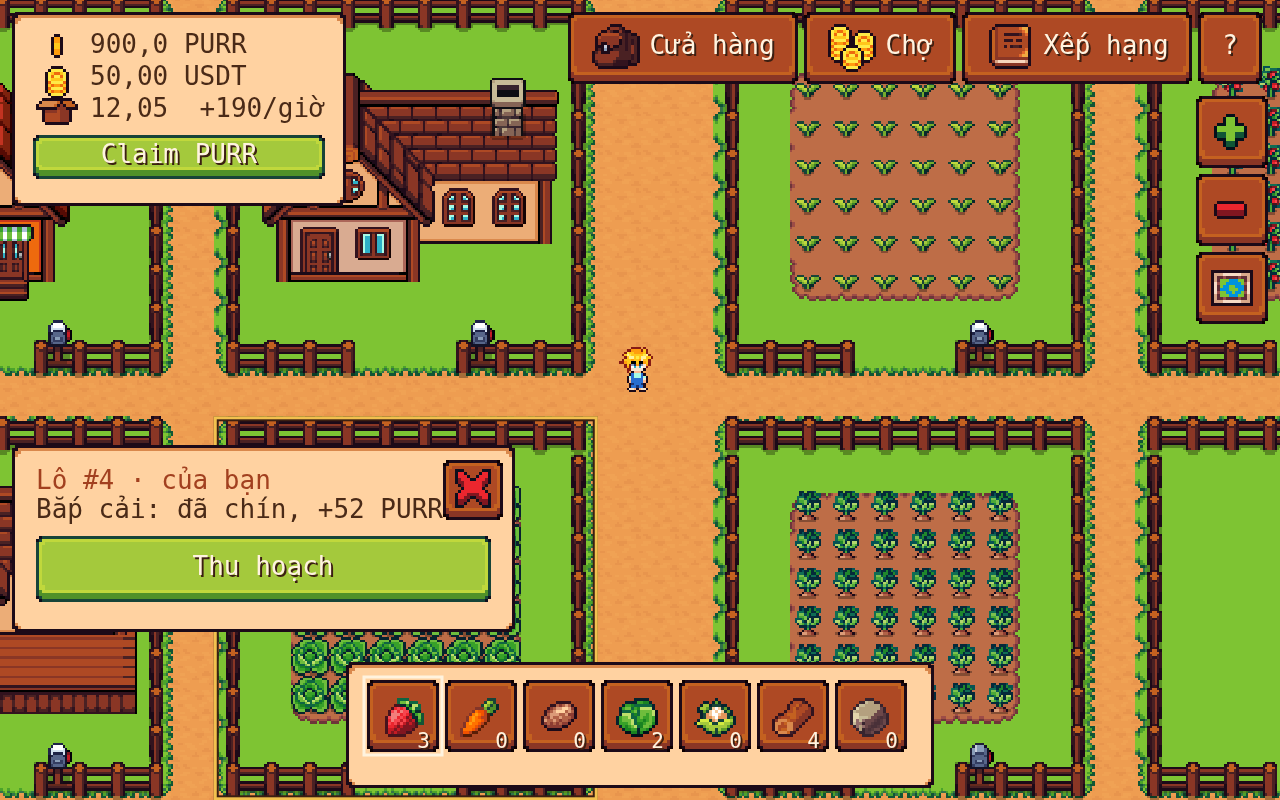
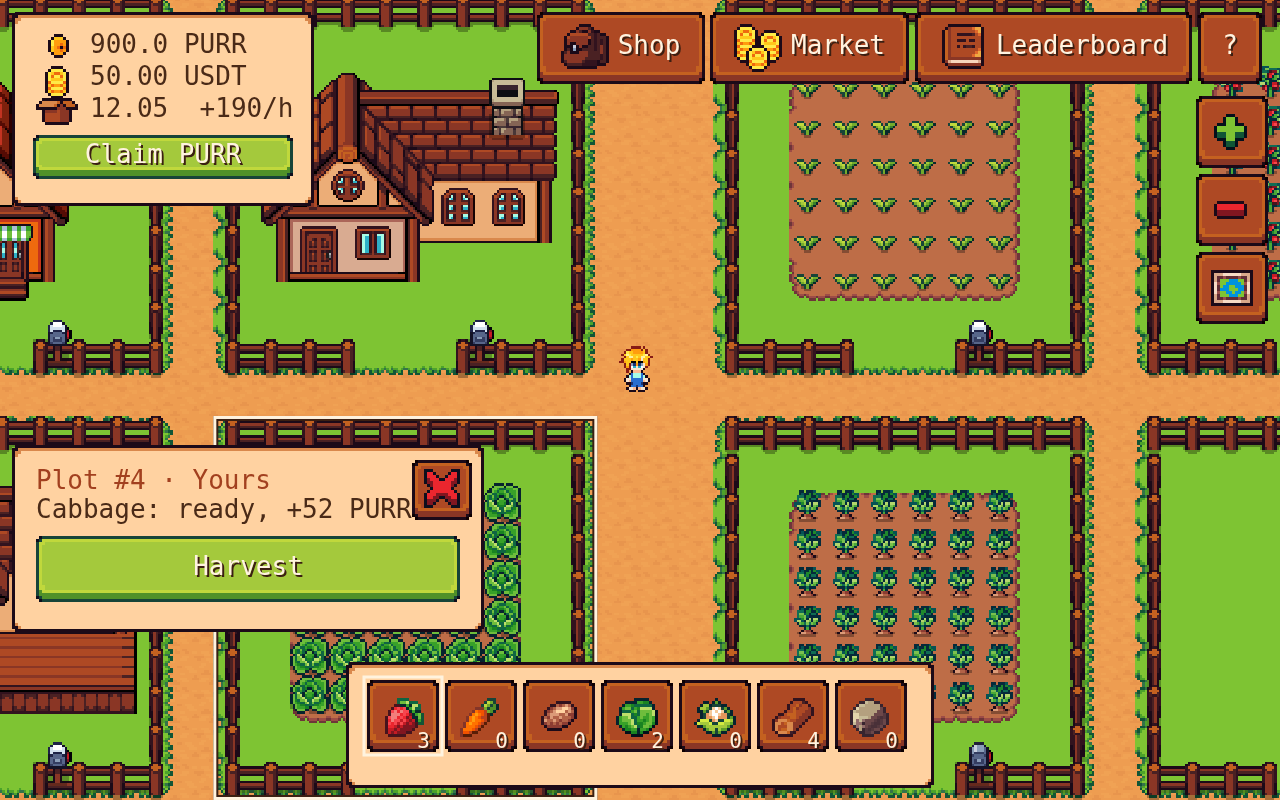
Purrl Valley: professional English build with title screen
Claude-Session: https://claude.ai/code/session_01TUebjeuij8Ma89MtCkRqRD

diff --git a/game/purrl-valley.html b/game/purrl-valley.html
@@ -8,7 +8,7 @@
 html, body { height: 100%; margin: 0; background: #3f8a3a; overflow: hidden; }
 #game { position: fixed; inset: 0; width: 100%; height: 100%; display: block; touch-action: none; image-rendering: pixelated; cursor: grab; }
 </style>
-<canvas id="game" tabindex="0" aria-label="Purrl Valley, game nông trại pixel. WASD hoặc bấm để đi, kéo để nhìn quanh, cuộn để phóng to."></canvas>
+<canvas id="game" tabindex="0" aria-label="Purrl Valley, a pixel farming game. Use WASD or tap to walk, drag to look around, scroll to zoom."></canvas>
 <script>
 'use strict';
 // ================= rules (play money) =================
@@ -18,25 +18,25 @@ const CLAIM_CD = 10 * 60 * 1000, CLAIM_FEE = 0.05;
 const POOL0 = { purr: 100000, usdt: 10000 }, SWAP_FEE = 0.003;
 // crops: row on the Spring Crops sheet; stages are columns 0-5, the harvested item is column 7
 const CROPS = {
-  strawberry:  { name: 'Dâu tây',  row: 1,  grow: 1 * 60e3,  yield: 9,   seed: 6 },
-  carrot:      { name: 'Cà rốt',   row: 9,  grow: 2 * 60e3,  yield: 16,  seed: 10 },
-  potato:      { name: 'Khoai tây', row: 5, grow: 4 * 60e3,  yield: 30,  seed: 18 },
-  cabbage:     { name: 'Bắp cải',  row: 15, grow: 8 * 60e3,  yield: 52,  seed: 30 },
-  cauliflower: { name: 'Súp lơ',   row: 17, grow: 15 * 60e3, yield: 105, seed: 60 },
+  strawberry:  { name: 'Strawberry',  row: 1,  grow: 1 * 60e3,  yield: 9,   seed: 6 },
+  carrot:      { name: 'Carrot',   row: 9,  grow: 2 * 60e3,  yield: 16,  seed: 10 },
+  potato:      { name: 'Potato', row: 5, grow: 4 * 60e3,  yield: 30,  seed: 18 },
+  cabbage:     { name: 'Cabbage',  row: 15, grow: 8 * 60e3,  yield: 52,  seed: 30 },
+  cauliflower: { name: 'Cauliflower',   row: 17, grow: 15 * 60e3, yield: 105, seed: 60 },
 };
-const MATS = { wood: { name: 'Gỗ', price: 8 }, stone: { name: 'Đá', price: 12 } };
+const MATS = { wood: { name: 'Wood', price: 8 }, stone: { name: 'Stone', price: 12 } };
 const HOUSE = [null,
-  { name: 'Nhà gỗ nhỏ',  rate: 30,  cost: { wood: 10, stone: 8 },  spr: 'house1' },
-  { name: 'Nhà hai gian', rate: 60,  cost: { wood: 20, stone: 16 }, spr: 'house2' },
-  { name: 'Trang trại',  rate: 100, cost: { wood: 40, stone: 30 }, spr: 'house3' },
+  { name: 'Cottage',  rate: 30,  cost: { wood: 10, stone: 8 },  spr: 'house1' },
+  { name: 'Farmhouse', rate: 60,  cost: { wood: 20, stone: 16 }, spr: 'house2' },
+  { name: 'Manor',  rate: 100, cost: { wood: 40, stone: 30 }, spr: 'house3' },
 ];
 
 // ================= state =================
 let db = null, user = null, me = null, canWrite = null, signedIn = null;
 let land = {}, farms = {}, pool = null, names = {};
 let sel = null, busy = false, hover = null;
-const ui = { win: null, seed: 'strawberry', toast: null, toastAt: 0 };
-const fmt = (n, d = 1) => Number(n).toLocaleString('vi-VN', { minimumFractionDigits: d, maximumFractionDigits: d });
+const ui = { win: null, seed: 'strawberry', toast: null, toastAt: 0, title: true };
+const fmt = (n, d = 1) => Number(n).toLocaleString('en-US', { minimumFractionDigits: d, maximumFractionDigits: d });
 const mins = (ms) => { const s = Math.max(0, Math.ceil(ms / 1000)); return Math.floor(s / 60) + ':' + String(s % 60).padStart(2, '0'); };
 const key = (x, y) => x + '_' + y;
 const clone = (o) => JSON.parse(JSON.stringify(o));
@@ -220,11 +220,11 @@ function button(x, y, w, h, label, fn, o = {}) {
 }
 function drawHUD(now) {
   const f = myFarm(), pad = S * 7, lh = F + S * 2;
-  const rows = f ? [['coin', fmt(f.purr) + ' PURR'], ['usdt', fmt(f.usdt, 2) + ' USDT'], ['box', fmt(pendingNow(f, now), 2) + '  +' + houseRate(f) + '/giờ']] : [['coin', 'PURR $' + fmt(price(), 4)]];
+  const rows = f ? [['coin', fmt(f.purr) + ' PURR'], ['usdt', fmt(f.usdt, 2) + ' USDT'], ['box', fmt(pendingNow(f, now), 2) + '  +' + houseRate(f) + '/h']] : [['coin', 'PURR $' + fmt(price(), 4)]];
   const w = Math.max(...rows.map(([, s]) => tw(s))) + 16 * S + pad * 2 + S * 3, h = rows.length * lh + pad * 2 + (f ? lh + S * 8 : 0);
   panel(S * 4, S * 4, w, h);
   rows.forEach(([k, s], i) => { const y = S * 4 + pad + i * lh; if (k === 'coin') icon('coin', Math.floor(now / 140) % 6, 0, S * 4 + pad, y + (lh - 16 * S) / 2 - S); else ic(k, S * 4 + pad, y + (lh - 16 * S) / 2 - S); text(s, S * 4 + pad + 16 * S + S * 3, y); });
-  if (f) { const left = CLAIM_CD - (now - (f.lastClaim || 0)); button(S * 4 + pad, S * 4 + pad + rows.length * lh + S * 2, w - pad * 2, lh + S * 4, left > 0 ? 'Claim sau ' + mins(left) : 'Claim PURR', actions.claim, { enabled: left <= 0, go: left <= 0 }); }
+  if (f) { const left = CLAIM_CD - (now - (f.lastClaim || 0)); button(S * 4 + pad, S * 4 + pad + rows.length * lh + S * 2, w - pad * 2, lh + S * 4, left > 0 ? 'Claim in ' + mins(left) : 'Claim PURR', actions.claim, { enabled: left <= 0, go: left <= 0 }); }
   // seed bar
   if (f) {
     const ks = Object.keys(CROPS), slot = 16 * S + S * 8, n = ks.length + 2, bw = n * (slot + S * 2) + S * 14;
@@ -243,7 +243,7 @@ function drawHUD(now) {
     });
   }
   // menu
-  const menu = [['Cửa hàng', 'shop', 'bag'], ['Chợ', 'market', 'pile'], ['Xếp hạng', 'board', 'book'], ['?', 'help', null]];
+  const menu = [['Shop', 'shop', 'bag'], ['Market', 'market', 'pile'], ['Leaderboard', 'board', 'book'], ['?', 'help', null]];
   const narrow = vw < 760, bh = 16 * S + S * 8;
   let x = vw - S * 4;
   menu.slice().reverse().forEach(([label, win, k], i) => {
@@ -261,7 +261,7 @@ function drawHUD(now) {
 }
 function goHome() {
   const mine = Object.keys(land).filter((k) => land[k].owner === me);
-  if (!mine.length) { toast('Bạn chưa có đất. Ra quảng trường.'); player.tx = (PLAZA[0] + 10.5) * TS; player.ty = (PLAZA[1] + 14) * TS; cam.follow = true; return; }
+  if (!mine.length) { toast('No land yet. Heading to the square.'); player.tx = (PLAZA[0] + 10.5) * TS; player.ty = (PLAZA[1] + 14) * TS; cam.follow = true; return; }
   const [x, y] = mine[0].split('_').map(Number); player.tx = (x + 5) * TS; player.ty = (y + LOT + .5) * TS; cam.follow = true; sel = mine[0];
 }
 function drawLotCard(now) {
@@ -269,25 +269,25 @@ function drawLotCard(now) {
   const f = myFarm(), l = land[sel], pad = S * 8, lh = F + S;
   let rows = [], btns = [];
   const p = l && farms[l.owner] && farms[l.owner].plots && farms[l.owner].plots[sel];
-  if (!l) { const pr = landPrice(); rows = [`Lô #${lotNo(sel)} · đang bán`, `Giá ${fmt(pr, 0)} PURR`]; btns = [['Mua lô này', actions.buyLand, !!f && f.purr >= pr, true]]; }
+  if (!l) { const pr = landPrice(); rows = [`Plot #${lotNo(sel)} · For sale`, `Price ${fmt(pr, 0)} PURR`]; btns = [['Buy this plot', actions.buyLand, !!f && f.purr >= pr, true]]; }
   else {
     const mine = l.owner === me;
-    rows = [`Lô #${lotNo(sel)} · ${mine ? 'của bạn' : (names[l.owner] || 'người khác')}`];
+    rows = [`Plot #${lotNo(sel)} · ${mine ? 'Yours' : (names[l.owner] || 'Another farmer')}`];
     if (!p || p.kind === 'empty') {
-      rows.push('Đất trống');
+      rows.push('Empty plot');
       if (mine) {
         const c = CROPS[ui.seed], n = (f.inv || {})[ui.seed] || 0;
-        btns.push([`Gieo ${c.name} (${n})`, () => actions.plant({ crop: ui.seed }), n > 0, true]);
-        btns.push([`Xây ${HOUSE[1].name}`, actions.build, hasCost(f, HOUSE[1].cost)]);
-        rows.push(`Nhà: ${HOUSE[1].cost.wood} gỗ, ${HOUSE[1].cost.stone} đá · ${HOUSE[1].rate}/giờ`);
+        btns.push([`Plant ${c.name} (${n})`, () => actions.plant({ crop: ui.seed }), n > 0, true]);
+        btns.push([`Build ${HOUSE[1].name}`, actions.build, hasCost(f, HOUSE[1].cost)]);
+        rows.push(`House: ${HOUSE[1].cost.wood} wood, ${HOUSE[1].cost.stone} stone · ${HOUSE[1].rate}/h`);
       }
     } else if (p.kind === 'crop') {
       const c = CROPS[p.crop], t = Math.min(1, (now - p.plantedAt) / c.grow);
-      rows.push(`${c.name}: ${t >= 1 ? 'đã chín, +' + c.yield + ' PURR' : 'còn ' + mins(c.grow * (1 - t))}`);
-      if (mine) btns.push(['Thu hoạch', actions.harvest, t >= 1, true]);
+      rows.push(`${c.name}: ${t >= 1 ? 'ready, +' + c.yield + ' PURR' : mins(c.grow * (1 - t)) + ' left'}`);
+      if (mine) btns.push(['Harvest', actions.harvest, t >= 1, true]);
     } else if (p.kind === 'house') {
-      const H = HOUSE[p.level]; rows.push(`${H.name} · ${H.rate} PURR/giờ`);
-      if (mine && p.level < 3) { const N = HOUSE[p.level + 1]; rows.push(`Nâng: ${N.cost.wood} gỗ, ${N.cost.stone} đá`); btns.push([`Nâng lên ${N.name}`, actions.upgrade, hasCost(f, N.cost)]); }
+      const H = HOUSE[p.level]; rows.push(`${H.name} · ${H.rate} PURR/h`);
+      if (mine && p.level < 3) { const N = HOUSE[p.level + 1]; rows.push(`Upgrade: ${N.cost.wood} wood, ${N.cost.stone} stone`); btns.push([`Upgrade to ${N.name}`, actions.upgrade, hasCost(f, N.cost)]); }
     }
   }
   if (!signedIn) btns = [];
@@ -311,50 +311,66 @@ function windowFrame(title, w, h) {
 function drawWindow() {
   const f = myFarm(), lh = F + S * 2, bh = 16 * S + S * 4;
   if (ui.win === 'shop') {
-    const list = [...Object.entries(CROPS).map(([k, c]) => [k, 'Hạt ' + c.name.toLowerCase(), c.seed, (x, y) => spr(cx, 'crops', 0, c.row * 16, 16, 16, x, y, S)]), ...Object.entries(MATS).map(([k, m]) => [k, m.name, m.price, (x, y) => ic(k, x, y)])];
-    const [x, y, w] = windowFrame('Cửa hàng', 15 * 16 * S, list.length * (bh + S * 3) + 16 * S * 2.4);
+    const list = [...Object.entries(CROPS).map(([k, c]) => [k, c.name + ' seeds', c.seed, (x, y) => spr(cx, 'crops', 0, c.row * 16, 16, 16, x, y, S)]), ...Object.entries(MATS).map(([k, m]) => [k, m.name, m.price, (x, y) => ic(k, x, y)])];
+    const [x, y, w] = windowFrame('Shop', 17 * 16 * S, list.length * (bh + S * 3) + 16 * S * 2.4);
     list.forEach(([k, name, pr, draw], i) => {
       const yy = y + i * (bh + S * 3);
       draw(x, yy + (bh - 16 * S) / 2); text(name, x + 16 * S + S * 4, yy + (bh - F) / 2);
-      text(pr + ' PURR', x + w * .64, yy + (bh - F) / 2, { align: 'right', color: '#a2401f' });
-      button(x + w * .67, yy, w * .155, bh, '+1', () => actions.buy({ item: k, qty: 1, price: pr }), { enabled: !!f && f.purr >= pr });
-      button(x + w * .845, yy, w * .155, bh, '+5', () => actions.buy({ item: k, qty: 5, price: pr }), { enabled: !!f && f.purr >= pr * 5 });
+      text(pr + ' PURR', x + w * .7, yy + (bh - F) / 2, { align: 'right', color: '#a2401f' });
+      button(x + w * .72, yy, w * .135, bh, '+1', () => actions.buy({ item: k, qty: 1, price: pr }), { enabled: !!f && f.purr >= pr });
+      button(x + w * .865, yy, w * .135, bh, '+5', () => actions.buy({ item: k, qty: 5, price: pr }), { enabled: !!f && f.purr >= pr * 5 });
     });
   }
   if (ui.win === 'market') {
-    const p = pool || POOL0, [x, y, w] = windowFrame('Chợ PURR / USDT', 14 * 16 * S, 10 * 16 * S);
-    text(`Giá  $${fmt(price(), 4)}`, x, y, { color: '#a2401f' });
+    const p = pool || POOL0, [x, y, w] = windowFrame('PURR / USDT Market', 14 * 16 * S, 10 * 16 * S);
+    text(`Price  $${fmt(price(), 4)}`, x, y, { color: '#a2401f' });
     text(`Pool ${fmt(p.purr, 0)} PURR · ${fmt(p.usdt, 0)} USDT`, x, y + lh);
     const hs = (p.hist || []).map((d) => d.p), gy = y + lh * 2 + S * 4, gh = 16 * S * 1.6;
     if (hs.length > 1) { const lo = Math.min(...hs), hi = Math.max(...hs), sp = hi - lo || hi * .01; cx.fillStyle = hs[hs.length - 1] >= hs[0] ? '#3f8a3a' : '#c0392b'; hs.forEach((v, i) => cx.fillRect(Math.round(x + i / (hs.length - 1) * (w - S * 2)), Math.round(gy + gh - (v - lo) / sp * gh), S * 2, S * 2)); }
-    else text('Biểu đồ hiện ra sau vài lượt giao dịch.', x, gy + gh / 3, { size: Math.round(F * .85) });
+    else text('The chart appears after a few trades.', x, gy + gh / 3, { size: Math.round(F * .85) });
     const by = gy + gh + S * 8, bw = (w - S * 6) / 4;
-    text('Bán PURR', x, by); ['10', '100', '1000', 'Hết'].forEach((v, i) => button(x + i * (bw + S * 2), by + lh, bw, bh, v, () => swap('sell', v === 'Hết' ? (f ? f.purr : 0) : +v), { enabled: !!f && f.purr > 0 }));
-    text('Mua PURR bằng USDT', x, by + lh + bh + S * 6); ['1', '10', '50', 'Hết'].forEach((v, i) => button(x + i * (bw + S * 2), by + 2 * lh + bh + S * 6, bw, bh, v === 'Hết' ? v : '$' + v, () => swap('buy', v === 'Hết' ? (f ? f.usdt : 0) : +v), { enabled: !!f && f.usdt > 0, go: true }));
+    text('Sell PURR', x, by); ['10', '100', '1000', 'Max'].forEach((v, i) => button(x + i * (bw + S * 2), by + lh, bw, bh, v, () => swap('sell', v === 'Max' ? (f ? f.purr : 0) : +v), { enabled: !!f && f.purr > 0 }));
+    text('Buy PURR with USDT', x, by + lh + bh + S * 6); ['1', '10', '50', 'Max'].forEach((v, i) => button(x + i * (bw + S * 2), by + 2 * lh + bh + S * 6, bw, bh, v === 'Max' ? v : '$' + v, () => swap('buy', v === 'Max' ? (f ? f.usdt : 0) : +v), { enabled: !!f && f.usdt > 0, go: true }));
   }
   if (ui.win === 'board') {
     const ids = Object.keys(farms), rows = ids.map((id) => [id, farms[id].earned || 0, Object.keys(farms[id].plots || {}).length]).sort((a, b) => b[1] - a[1]).slice(0, 10);
-    const [x, y, w] = windowFrame('Bảng nông dân', 13 * 16 * S, Math.max(4, rows.length + 2) * lh + 16 * S * 2.4);
-    if (!rows.length) text('Chưa có ai vào làng.', x, y);
-    rows.forEach(([id, e, n], i) => { const c = id === me ? '#a2401f' : '#4a2a17'; text(`${i + 1}. ${id === me ? 'Bạn' : (names[id] || 'Nông dân')} · ${n} lô`, x, y + i * lh, { color: c }); text(fmt(e, 0), x + w, y + i * lh, { align: 'right', color: c }); });
+    const [x, y, w] = windowFrame('Leaderboard', 13 * 16 * S, Math.max(4, rows.length + 2) * lh + 16 * S * 2.4);
+    if (!rows.length) text('No farmers yet.', x, y);
+    rows.forEach(([id, e, n], i) => { const c = id === me ? '#a2401f' : '#4a2a17'; text(`${i + 1}. ${id === me ? 'You' : (names[id] || 'Farmer')} · ${n} plots`, x, y + i * lh, { color: c }); text(fmt(e, 0), x + w, y + i * lh, { align: 'right', color: c }); });
   }
   if (ui.win === 'help') {
-    const tips = ['WASD/mũi tên để đi, hoặc bấm vào nơi muốn tới.', 'Kéo để nhìn quanh, cuộn hoặc chụm tay để zoom.', 'Bấm lô có biển gỗ để mua bằng PURR.', 'Mua hạt, gỗ, đá ở Cửa hàng.', 'Chọn hạt ở thanh dưới, bấm lô của bạn, Gieo.', 'Cây chín thì Thu hoạch, PURR vào kho.', 'Nhà đào PURR theo giờ, nâng cấp để đào nhiều hơn.', 'Mỗi 10 phút Claim kho về ví, phí 5%.', 'Coin trong game là coin ảo để chơi thử.', 'Đồ hoạ: Farm RPG Tiny Asset Pack - EmanuelleDev.'];
-    const [x, y] = windowFrame('Cách chơi', 17 * 16 * S, tips.length * lh + 16 * S * 2.4);
+    const tips = ['Walk with WASD or the arrow keys, or tap where to go.', 'Drag to look around. Scroll or pinch to zoom.', 'Tap a plot with a wooden sign to buy it with PURR.', 'Buy seeds, wood and stone in the Shop.', 'Pick a seed in the bar, tap your plot, then Plant.', 'Harvest ripe crops. PURR goes to your storage.', 'Houses mine PURR every hour. Upgrade to mine more.', 'Claim storage to your wallet every 10 min (5% fee).', 'PURR and USDT here are play money for testing.', 'Art: Farm RPG Tiny Asset Pack by EmanuelleDev.'];
+    const [x, y] = windowFrame('How to play', 17 * 16 * S, tips.length * lh + 16 * S * 2.4);
     tips.forEach((t, i) => text(t, x, y + i * lh, { size: Math.round(F * .9) }));
   }
 }
 function drawModal() {
   let msg = null, btn = null;
-  if (signedIn === false) msg = ['Đăng nhập Claude để chơi.', 'Bạn vẫn đi dạo và xem làng được.'];
-  else if (signedIn && canWrite === false) msg = ['Bạn đang ở quyền chỉ xem.', 'Nhờ chủ trang cấp quyền Contributor.'];
-  else if (signedIn && me && !myFarm()) { msg = ['Chào nông dân mới!', `Nhận ${START.purr} PURR và ${START.usdt} USDT để bắt đầu.`]; btn = ['Nhận gói khởi đầu', actions.start]; }
+  if (signedIn === false) msg = ['Sign in to Claude to play.', 'You can still walk around the village.'];
+  else if (signedIn && canWrite === false) msg = ['You have view-only access.', 'Ask the owner for Contributor access.'];
+  else if (signedIn && me && !myFarm()) { msg = ['Welcome, new farmer!', `Claim ${START.purr} PURR and ${START.usdt} USDT to get started.`]; btn = ['Claim starter pack', actions.start]; }
   if (!msg) return;
   const lh = F + S * 2, w = Math.min(vw - S * 8, Math.max(...msg.map((m) => tw(m))) + S * 28), h = msg.length * lh + (btn ? 16 * S + S * 12 : 0) + S * 20;
   const x = vw / 2 - w / 2, y = vh * .16;
   panel(x, y, w, h);
   msg.forEach((m, i) => text(m, vw / 2, y + S * 10 + i * lh, { align: 'center', color: i ? '#4a2a17' : '#a2401f' }));
   if (btn) button(x + S * 10, y + S * 10 + msg.length * lh, w - S * 20, 16 * S + S * 4, btn[0], btn[1], { go: true });
+}
+function drawTitle(t) {
+  cx.fillStyle = 'rgba(30,18,10,.45)'; cx.fillRect(0, 0, vw, vh); blocks.push([0, 0, vw, vh]); hits.push({ x: 0, y: 0, w: vw, h: vh, fn: null });
+  const maxW = vw - S * 8, pad = S * 12;
+  let big = Math.round(F * 2.6); while (big > F && tw('PURRL VALLEY', big) + pad * 2 > maxW) big -= 2;
+  const sub = 'A cozy pixel farming village', subSize = tw(sub) + pad * 2 > maxW ? Math.round(F * .8) : F;
+  const bh = 16 * S + S * 6, w = Math.min(maxW, Math.max(tw('PURRL VALLEY', big), tw(sub, subSize)) + pad * 2);
+  const h = pad + 16 * S + S * 4 + big + S * 2 + subSize + S * 10 + bh + S * 6 + F + pad;
+  const x = vw / 2 - w / 2; let y = vh / 2 - h / 2;
+  panel(x, y, w, h); y += pad;
+  icon('coin', Math.floor(t / 140) % 6, 0, vw / 2 - 8 * S, y); y += 16 * S + S * 4;
+  text('PURRL VALLEY', vw / 2, y, { align: 'center', size: big, color: '#a2401f' }); y += big + S * 2;
+  text(sub, vw / 2, y, { align: 'center', size: subSize }); y += subSize + S * 10;
+  const bw = Math.min(w - pad * 2, 6 * 16 * S);
+  button(vw / 2 - bw / 2, y, bw, bh, 'Play', () => { ui.title = false; }, { go: true }); y += bh + S * 6;
+  text('Art by EmanuelleDev', vw / 2, y, { align: 'center', size: Math.round(F * .75), color: '#8a6a4a' });
 }
 function drawToast(now) {
   if (!ui.toast || now - ui.toastAt > 3200) return;
@@ -388,7 +404,7 @@ function frame(t) {
     const box = (k, col, w) => { const [x, y] = k.split('_').map(Number), sx = (x * TS - cam.x) * cam.z + vw / 2, sy = (y * TS - cam.y) * cam.z + vh / 2, s = LOT * TS * cam.z; cx.strokeStyle = col; cx.lineWidth = w; cx.strokeRect(sx + w / 2, sy + w / 2, s - w, s - w); };
     if (hover && hover !== sel) box(hover, 'rgba(255,243,223,.8)', 2);
     if (sel) { box(sel, '#3b1f12', 5); box(sel, Math.floor(t / 380) % 2 ? '#fff3df' : '#f2c14e', 3); }
-    drawHUD(now); drawLotCard(now); drawModal(); drawWindow(); drawToast(t);
+    if (ui.title) drawTitle(t); else { drawHUD(now); drawLotCard(now); drawModal(); drawWindow(); drawToast(t); }
   }
   requestAnimationFrame(frame);
 }
@@ -429,7 +445,7 @@ cv.addEventListener('pointerup', endPtr); cv.addEventListener('pointercancel', e
 cv.addEventListener('pointerleave', () => { hover = null; mouse.x = mouse.y = -1; });
 cv.addEventListener('wheel', (e) => { e.preventDefault(); const r = cv.getBoundingClientRect(); zoomAt(Math.exp(-e.deltaY * .0016), e.clientX - r.left, e.clientY - r.top); }, { passive: false });
 const MOVE = ['w', 'a', 's', 'd', 'ArrowUp', 'ArrowDown', 'ArrowLeft', 'ArrowRight', 'Shift'];
-window.addEventListener('keydown', (e) => { const k = e.key.length === 1 ? e.key.toLowerCase() : e.key; if (MOVE.includes(k)) { keys.add(k); if (k.startsWith('Arrow')) e.preventDefault(); } if (k === '+' || k === '=') zoomAt(1.25, vw / 2, vh / 2); if (k === '-') zoomAt(.8, vw / 2, vh / 2); if (k === 'Escape') { sel = null; ui.win = null; } });
+window.addEventListener('keydown', (e) => { const k = e.key.length === 1 ? e.key.toLowerCase() : e.key; if (MOVE.includes(k)) { keys.add(k); if (k.startsWith('Arrow')) e.preventDefault(); } if (k === '+' || k === '=') zoomAt(1.25, vw / 2, vh / 2); if (k === '-') zoomAt(.8, vw / 2, vh / 2); if (k === 'Escape') { sel = null; ui.win = null; } if (k === 'Enter') ui.title = false; });
 window.addEventListener('keyup', (e) => keys.delete(e.key.length === 1 ? e.key.toLowerCase() : e.key));
 window.addEventListener('blur', () => keys.clear());
 
@@ -439,41 +455,41 @@ async function saveFarm(f) { await db.doc('farms/' + me).set(f); farms[me] = f; 
 const fail = (m) => { const e = new Error(m); e.userMsg = m; throw e; };
 async function act(fn) {
   if (busy) return;
-  if (!db || !me) { toast('Đăng nhập để chơi.'); return; }
+  if (!db || !me) { toast('Sign in to play.'); return; }
   busy = true;
-  try { await fn(); } catch (e) { toast(e && e.userMsg ? e.userMsg : 'Không lưu được. Thử lại sau giây lát.'); console.error(e); }
+  try { await fn(); } catch (e) { toast(e && e.userMsg ? e.userMsg : 'Could not save. Try again in a moment.'); console.error(e); }
   busy = false;
 }
-async function lease(ref) { for (let i = 0; i < 6; i++) { const r = await ref.acquire({ holder: me, ttlMs: 4000 }); if (r.acquired) return; await new Promise((ok) => setTimeout(ok, 400 + Math.random() * 400)); } fail('Đang có người giao dịch, thử lại sau.'); }
+async function lease(ref) { for (let i = 0; i < 6; i++) { const r = await ref.acquire({ holder: me, ttlMs: 4000 }); if (r.acquired) return; await new Promise((ok) => setTimeout(ok, 400 + Math.random() * 400)); } fail('Someone else is trading. Try again shortly.'); }
 const actions = {
-  start: () => act(async () => { const now = Date.now(); await saveFarm({ purr: START.purr, usdt: START.usdt, pending: 0, accrueAt: now, lastClaim: 0, earned: 0, inv: {}, plots: {}, createdAt: now }); toast('Đã nhận gói khởi đầu. Bấm một lô có biển gỗ.'); }),
+  start: () => act(async () => { const now = Date.now(); await saveFarm({ purr: START.purr, usdt: START.usdt, pending: 0, accrueAt: now, lastClaim: 0, earned: 0, inv: {}, plots: {}, createdAt: now }); toast('Starter pack claimed. Tap a plot with a wooden sign.'); }),
   buyLand: () => act(async () => {
     const k = sel, pr = landPrice(), f = accrued(myFarm());
-    if (!(k in PLOT_INDEX)) fail('Lô này không bán.'); if (f.purr < pr) fail('Không đủ PURR.');
+    if (!(k in PLOT_INDEX)) fail('This plot is not for sale.'); if (f.purr < pr) fail('Not enough PURR.');
     const ref = db.doc('land/' + k); await lease(ref);
-    const cur = await ref.get(); if (cur.exists && cur.data().owner) fail('Lô này vừa có người mua.');
+    const cur = await ref.get(); if (cur.exists && cur.data().owner) fail('Someone just bought this plot.');
     await ref.set({ owner: me, at: Date.now() }); land[k] = { owner: me };
-    f.purr -= pr; f.plots[k] = { kind: 'empty' }; await saveFarm(f); toast('Đã mua lô #' + lotNo(k) + ' giá ' + fmt(pr, 0) + ' PURR.');
+    f.purr -= pr; f.plots[k] = { kind: 'empty' }; await saveFarm(f); toast('Bought plot #' + lotNo(k) + ' for ' + fmt(pr, 0) + ' PURR.');
   }),
-  buy: (d) => act(async () => { const q = +d.qty, f = accrued(myFarm()), pr = CROPS[d.item] ? CROPS[d.item].seed : MATS[d.item].price; if (f.purr < pr * q) fail('Không đủ PURR.'); f.purr -= pr * q; f.inv[d.item] = (f.inv[d.item] || 0) + q; await saveFarm(f); toast(`+${q} ${CROPS[d.item] ? 'hạt ' + CROPS[d.item].name.toLowerCase() : MATS[d.item].name}`); }),
-  build: () => act(async () => { const f = accrued(myFarm()), c = HOUSE[1].cost; if (!hasCost(f, c)) fail('Thiếu gỗ hoặc đá.'); f.inv.wood -= c.wood; f.inv.stone -= c.stone; f.plots[sel] = { kind: 'house', level: 1 }; await saveFarm(f); toast('Đã xây nhà. Nhà bắt đầu đào PURR.'); }),
-  upgrade: () => act(async () => { const f = accrued(myFarm()), p = f.plots[sel], c = HOUSE[p.level + 1].cost; if (!hasCost(f, c)) fail('Thiếu gỗ hoặc đá.'); f.inv.wood -= c.wood; f.inv.stone -= c.stone; p.level += 1; await saveFarm(f); toast('Đã nâng lên ' + HOUSE[p.level].name + '.'); }),
-  plant: (d) => act(async () => { const f = accrued(myFarm()); if (!(f.inv[d.crop] > 0)) fail('Hết hạt giống.'); f.inv[d.crop] -= 1; f.plots[sel] = { kind: 'crop', crop: d.crop, plantedAt: Date.now() }; await saveFarm(f); }),
-  harvest: () => act(async () => { const f = accrued(myFarm()), p = f.plots[sel], c = CROPS[p.crop]; if (Date.now() - p.plantedAt < c.grow) fail('Chưa chín.'); f.pending += c.yield; f.plots[sel] = { kind: 'empty' }; await saveFarm(f); toast('+' + c.yield + ' PURR vào kho.'); }),
-  claim: () => act(async () => { const f = accrued(myFarm()), now = Date.now(); if (now - (f.lastClaim || 0) < CLAIM_CD) fail('Chưa đến giờ claim.'); if (f.pending < .01) fail('Kho đang trống.'); const got = f.pending * (1 - CLAIM_FEE); f.purr += got; f.earned = (f.earned || 0) + got; f.pending = 0; f.lastClaim = now; await saveFarm(f); toast('Đã claim ' + fmt(got, 2) + ' PURR.'); }),
+  buy: (d) => act(async () => { const q = +d.qty, f = accrued(myFarm()), pr = CROPS[d.item] ? CROPS[d.item].seed : MATS[d.item].price; if (f.purr < pr * q) fail('Not enough PURR.'); f.purr -= pr * q; f.inv[d.item] = (f.inv[d.item] || 0) + q; await saveFarm(f); toast(`+${q} ${CROPS[d.item] ? CROPS[d.item].name + ' seeds' : MATS[d.item].name}`); }),
+  build: () => act(async () => { const f = accrued(myFarm()), c = HOUSE[1].cost; if (!hasCost(f, c)) fail('Not enough wood or stone.'); f.inv.wood -= c.wood; f.inv.stone -= c.stone; f.plots[sel] = { kind: 'house', level: 1 }; await saveFarm(f); toast('House built. It is now mining PURR.'); }),
+  upgrade: () => act(async () => { const f = accrued(myFarm()), p = f.plots[sel], c = HOUSE[p.level + 1].cost; if (!hasCost(f, c)) fail('Not enough wood or stone.'); f.inv.wood -= c.wood; f.inv.stone -= c.stone; p.level += 1; await saveFarm(f); toast('Upgraded to ' + HOUSE[p.level].name + '.'); }),
+  plant: (d) => act(async () => { const f = accrued(myFarm()); if (!(f.inv[d.crop] > 0)) fail('Out of seeds.'); f.inv[d.crop] -= 1; f.plots[sel] = { kind: 'crop', crop: d.crop, plantedAt: Date.now() }; await saveFarm(f); }),
+  harvest: () => act(async () => { const f = accrued(myFarm()), p = f.plots[sel], c = CROPS[p.crop]; if (Date.now() - p.plantedAt < c.grow) fail('Not ready yet.'); f.pending += c.yield; f.plots[sel] = { kind: 'empty' }; await saveFarm(f); toast('+' + c.yield + ' PURR added to storage.'); }),
+  claim: () => act(async () => { const f = accrued(myFarm()), now = Date.now(); if (now - (f.lastClaim || 0) < CLAIM_CD) fail('Claim is not ready yet.'); if (f.pending < .01) fail('Storage is empty.'); const got = f.pending * (1 - CLAIM_FEE); f.purr += got; f.earned = (f.earned || 0) + got; f.pending = 0; f.lastClaim = now; await saveFarm(f); toast('Claimed ' + fmt(got, 2) + ' PURR.'); }),
 };
 function swap(dir, v) {
   v = Math.floor(v * 100) / 100; if (!(v > 0)) return;
   return act(async () => {
     const f = accrued(myFarm());
-    if (dir === 'sell' && f.purr < v) fail('Không đủ PURR.'); if (dir === 'buy' && f.usdt < v) fail('Không đủ USDT.');
+    if (dir === 'sell' && f.purr < v) fail('Not enough PURR.'); if (dir === 'buy' && f.usdt < v) fail('Not enough USDT.');
     const ref = db.doc('market/pool'); await lease(ref);
     const s = await ref.get(), p = s.exists ? clone(s.data()) : { ...POOL0, hist: [] }; let out;
     if (dir === 'sell') { out = swapOut(p.purr, p.usdt, v); p.purr += v; p.usdt -= out; f.purr -= v; f.usdt += out; }
     else { out = swapOut(p.usdt, p.purr, v); p.usdt += v; p.purr -= out; f.usdt -= v; f.purr += out; }
     p.hist = [...(p.hist || []), { t: Date.now(), p: p.usdt / p.purr }].slice(-60);
     await ref.set(p); pool = p; await saveFarm(f);
-    toast(dir === 'sell' ? `Bán ${fmt(v, 2)} PURR → ${fmt(out, 2)} USDT` : `Mua ${fmt(out, 2)} PURR bằng ${fmt(v, 2)} USDT`);
+    toast(dir === 'sell' ? `Sold ${fmt(v, 2)} PURR for ${fmt(out, 2)} USDT` : `Bought ${fmt(out, 2)} PURR for ${fmt(v, 2)} USDT`);
   });
 }
 
